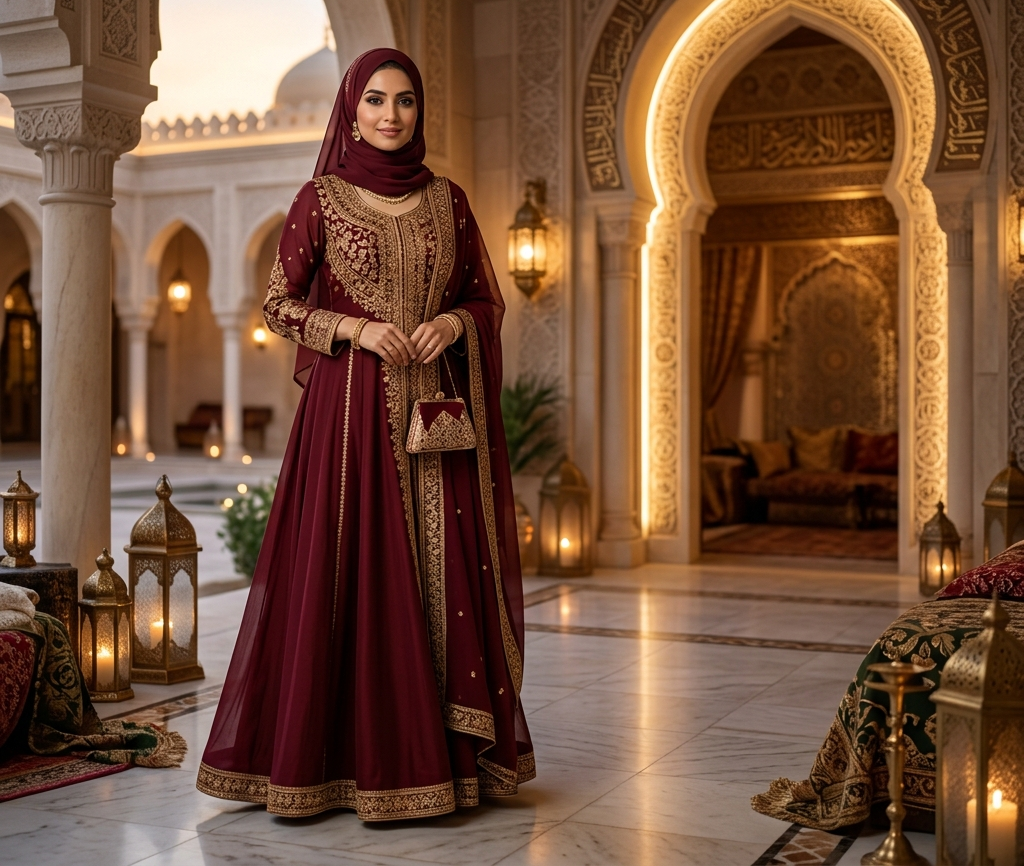
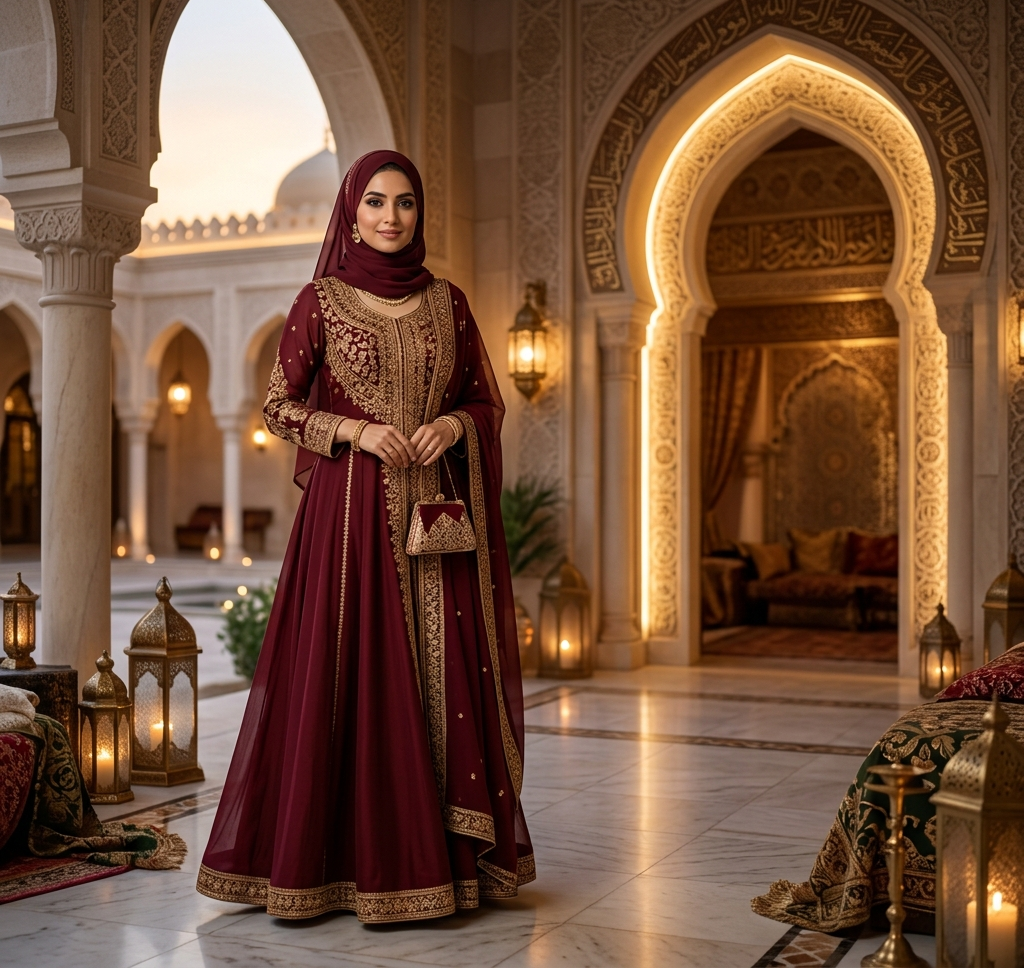
feat: add HomeHero component with slide transitions and implement About page layout with CSS styling

diff --git a/src/style/About.css b/src/style/About.css
@@ -19,17 +19,7 @@
     color: #00382e;
 }
 
-@media (max-width: 768px) {
-    .about-hero {
-        justify-content: center;
-        text-align: center;
-        padding-left: 20px;
-        padding-right: 20px;
-        height: 60vh;
-        background-attachment: scroll;
-        background-position: left center;
-    }
-}
+
 
 .hero-overlay {
     position: absolute;
@@ -85,6 +75,11 @@
     .section-grid {
         grid-template-columns: 1fr;
         gap: 40px;
+    }
+
+    .about-section {
+        padding: 80px 20px;
+        margin: 0 auto;
     }
 }
 
@@ -145,7 +140,7 @@
 
 .value-card {
     background: white;
-    padding: 40px;
+    padding: 20px;
     border-radius: 20px;
     transition: all 0.3s ease;
     border: 1px solid rgba(28, 47, 47, 0.05);
@@ -238,6 +233,10 @@
     .stat-item h3 {
         font-size: 2.2rem;
     }
+
+    .legacy-stats {
+        gap: 35px;
+    }
 }
 
 @keyframes fadeInUp {
@@ -269,6 +268,32 @@
     top: 0;
     right: 5%;
     width: 120px;
+}
+
+@media (max-width: 768px) {
+    .about-hero {
+        justify-content: center;
+        text-align: center;
+        padding-left: 20px;
+        padding-right: 20px;
+        height: 60vh;
+        background-attachment: fixed;
+        background-position: 70% center;
+    }
+
+    .hero-title {
+        font-size: 2.5rem;
+    }
+
+    .hero-subtitle {
+        font-size: 0.95rem;
+        letter-spacing: 3px;
+    }
+
+    .decorator-1 {
+        width: 75px;
+        opacity: 0.2;
+    }
 }
 
 @keyframes float {

diff --git a/src/Components/HomeHero.jsx b/src/Components/HomeHero.jsx
@@ -22,7 +22,7 @@ const slides = [
     btnSecondary: "bg-transparent border-gray-900 text-gray-900 hover:bg-gray-900 hover:text-white",
     btnPrimaryText: "Shop Sarees",
     btnSecondaryText: "Our Heritage",
-    bgobject: "center",
+    bgClass: "bg-[75%_center] md:bg-center",
     gradient: "linear-gradient(90deg, rgba(252, 249, 245, 0.95) 0%, rgba(252, 249, 245, 0.5) 50%, rgba(252, 249, 245, 0) 100%)"
   },
   {
@@ -39,7 +39,7 @@ const slides = [
     btnSecondary: "bg-transparent border-white text-white hover:bg-white hover:text-gray-950",
     btnPrimaryText: "Shop Modest Wear",
     btnSecondaryText: "Explore Styles",
-    bgobject: "top",
+    bgClass: "bg-[28%_top] md:bg-top",
     gradient: "linear-gradient(270deg, rgba(24, 18, 15, 0.95) 0%, rgba(24, 18, 15, 0.5) 50%, rgba(24, 18, 15, 0) 100%)"
   }
 ];
@@ -53,7 +53,7 @@ const HomeHero = () => {
       {slides.map((slide, index) => (
         <div
           key={`bg-${slide.id}`}
-          className={`absolute inset-0 bg-cover bg-${slide.bgobject} md:bg-fixed transition-opacity duration-1000 ease-in-out ${index === activeIndex ? "opacity-100 z-0" : "opacity-0 -z-10"
+          className={`absolute inset-0 bg-cover ${slide.bgClass} bg-fixed transition-opacity duration-1000 ease-in-out ${index === activeIndex ? "opacity-100 z-0" : "opacity-0 -z-10"
             }`}
           style={{ backgroundImage: `url(${slide.image})` }}
         >

diff --git a/src/Components/About.jsx b/src/Components/About.jsx
@@ -12,7 +12,7 @@ import {
 import "../style/About.css";
 
 // Importing assets
-import leftlight from "../assets/leftlight.png";
+// import leftlight from "../assets/leftlight.png";
 // import rightlight from "../assets/rightlight.png";
 import aboutHeroNew from "../assets/images/indian_muslim_fashion_banner.png";
 import storyImg from "../assets/hero1.jpg";
@@ -57,7 +57,7 @@ const About = () => {
         </div>
 
         {/* Floating Decorators */}
-        <img src={leftlight} alt="" className="floating-decorator decorator-1" />
+        {/* <img src={leftlight} alt="" className="floating-decorator decorator-1" /> */}
         {/* <img src={rightlight} alt="" className="floating-decorator decorator-2" /> */}
       </section>
 